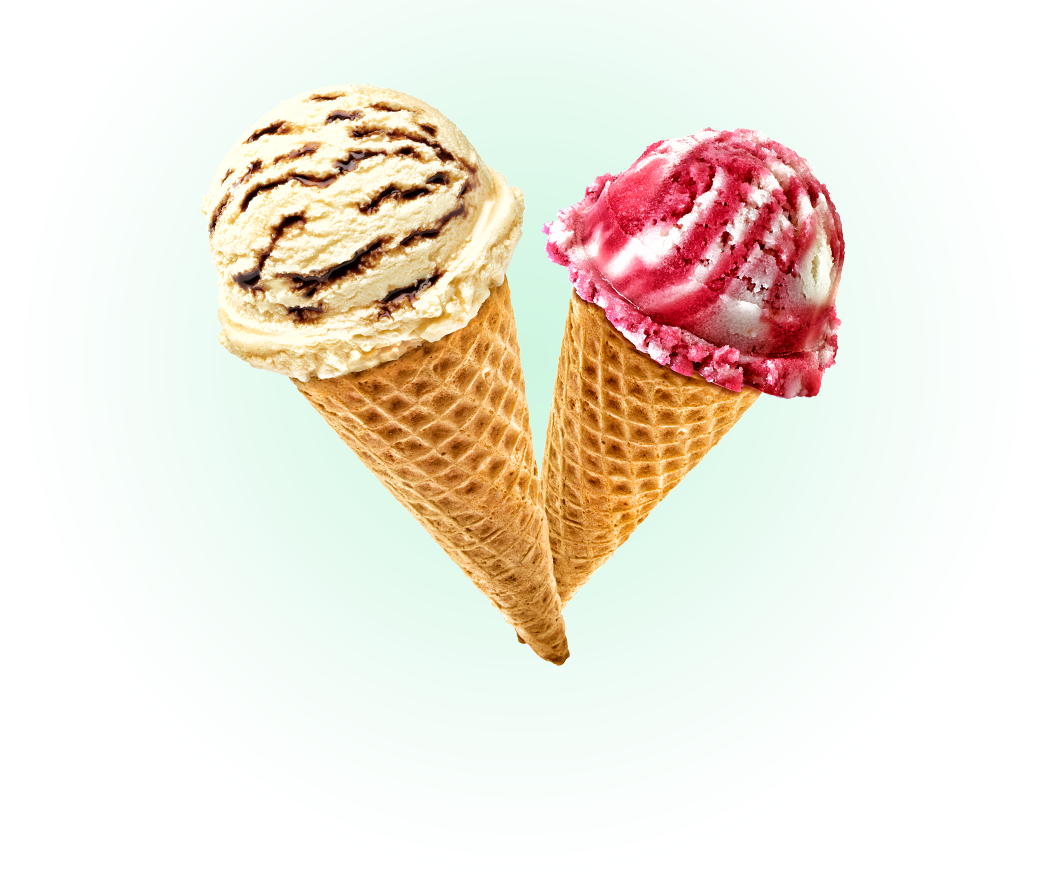
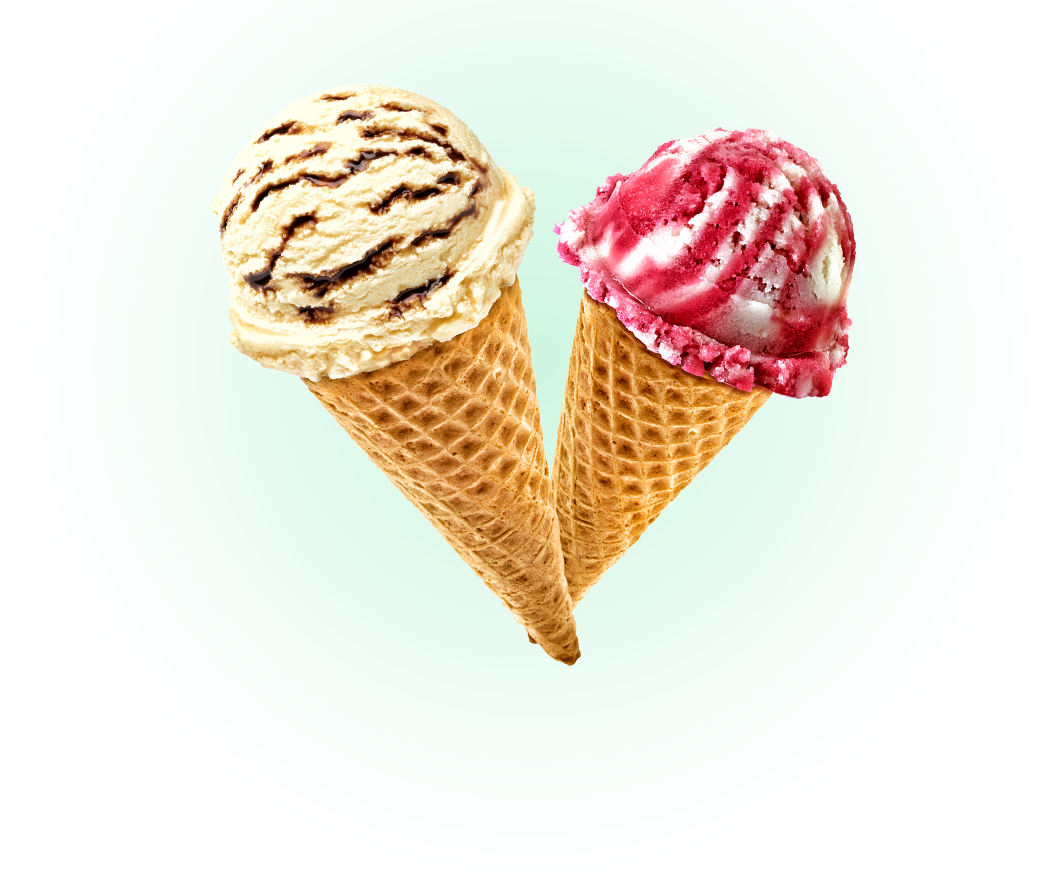
Исправил позиционирование слайдов

Changed region(s): [[0.1837, 0.0919, 0.8268, 0.7662]]

diff --git a/css/style.css b/css/style.css
@@ -289,7 +289,7 @@ body {
 .slide__image {
   position: absolute;
   top: 0px;
-  left: 111px;
+  left: calc(auto + 15px);
   z-index: -1;
 }
 
